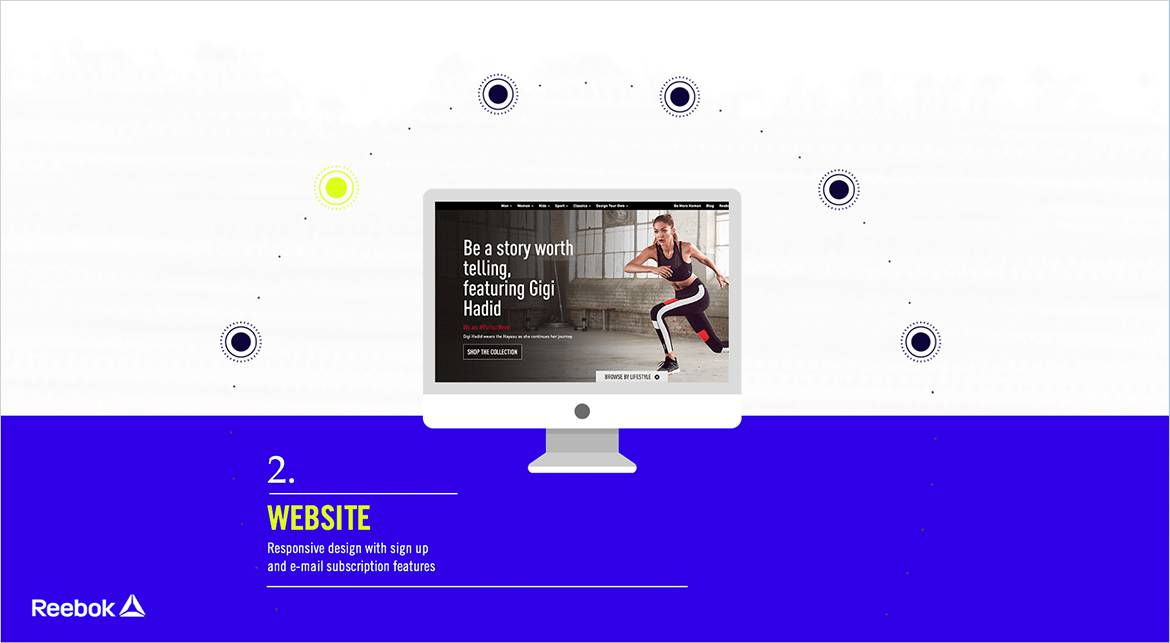
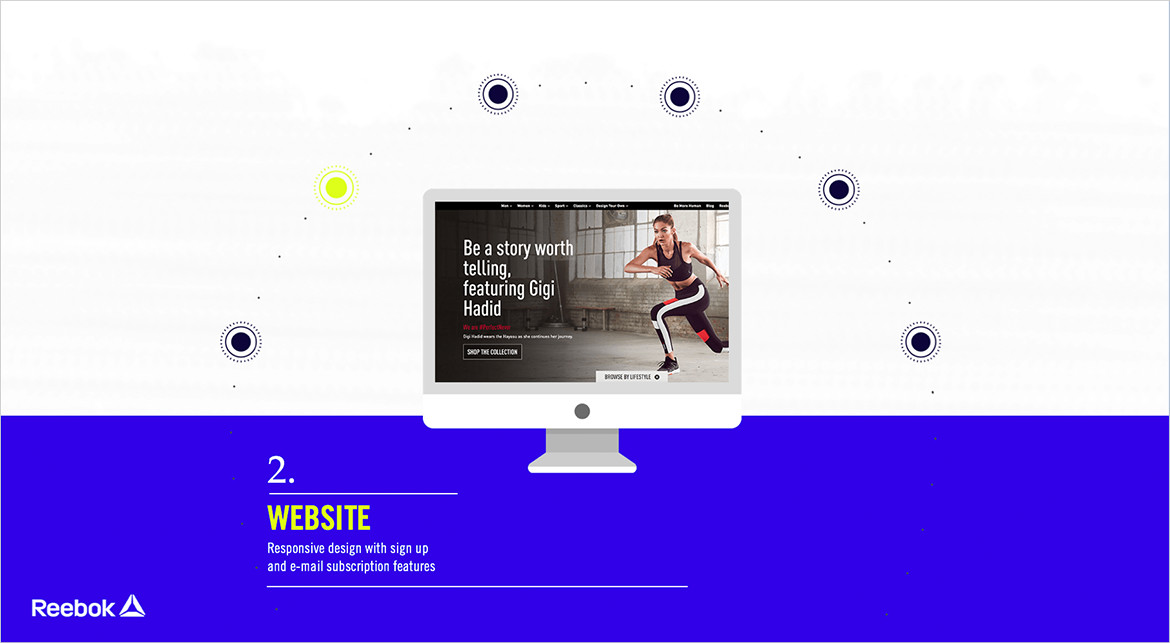
fixed header background cover, and increased quality of reebok images

diff --git a/src/components/headerShelf.js b/src/components/headerShelf.js
@@ -1,11 +1,12 @@
 import React from 'react';
 import Link from 'gatsby-link';
+import Radium from 'radium';
 
 import bg from '../assets/header-bg-2500.jpg';
 import logo from '../assets/logo.png';
 
 const HeaderShelf = () =>
-  <section style={styles.section}>
+  <section className="cover" style={styles.section}>
     <div style={{ display: "table", width: "100%", height: "100%" }}>
       <div style={{ display: "table-cell", verticalAlign: "middle" }}>
         <div>
@@ -21,7 +22,9 @@ var styles = {};
 
 styles.section = {
   height: '100vh',
-  background: 'linear-gradient(rgba(0, 0, 0, 0.15), rgba(0, 0, 0, 0.15)),url(' + bg + ') no-repeat center center',
+  backgroundImage: 'linear-gradient(rgba(0, 0, 0, 0.15), rgba(0, 0, 0, 0.15)),url(' + bg + ')',
+  backgroundRepeat: 'no-repeat',
+  backgroundPosition: 'center center',
   'WebkitBackgroundSize': 'cover',
   'MozBackgroundSize': 'cover',
   'OBackgroundSize': 'cover',
@@ -52,4 +55,4 @@ styles.hr = {
   marginBottom: '4vh'
 }
 
-export default HeaderShelf;
+export default Radium(HeaderShelf);

diff --git a/src/pages/festival-of-you.js b/src/pages/festival-of-you.js
@@ -20,7 +20,7 @@ class FestivalOfYou extends React.Component{
         description="Urban Outfitters have been continually criticised for their negative influence on the self esteem and confidence in young people, especially young girls. 'Festival of You' is a concept designed to alter the brands damaged reputation. The event offers customers a 2 day celebration of themselves and a chance to improve their confidence through a series of inspirational talks and workshops."
         images={[festivalofyou1, festivalofyou2, festivalofyou3, festivalofyou4]}
         prevPageName='/jamie-veg-patch'
-        nextPageName='#' />
+        nextPageName='/mercury' />
     </div>)
   }
 

diff --git a/src/pages/mercury.js b/src/pages/mercury.js
@@ -18,7 +18,7 @@ class Mercury extends React.Component{
         heading="Mercury Brochure"
         description="An annual report for Mercury Logistics. The approach to the text heavy document was founded on key words from the report itself; 'honest', 'open' and 'connected'. The curved graphic elements used in this context reflect these core values, while also adding movement and fluidity to the pages."
         images={[mercury1, mercury2, mercury3]}
-        prevPageName='/jamie-veg-patch'
+        prevPageName='/festival-of-you'
         nextPageName='#' />
     </div>)
   }

diff --git a/src/pages/open-market-presentation.js b/src/pages/open-market-presentation.js
@@ -20,7 +20,7 @@ class OpenMarketPresentation extends React.Component{
         description="A powerpoint template designed while working at Buffalo 7. Using OpenMarket’s brand guidelines, the result was a diverse and functional template, including data visualisation, custom graphics & illustration and animation techniques. "
         images={[openmarket1, openmarket2, openmarket3, openmarket4]}
         prevPageName='/federal-menu'
-        nextPageName='#' />
+        nextPageName='/jamie-veg-patch' />
     </div>)
   }
 

diff --git a/src/components/page/pageHeader.js b/src/components/page/pageHeader.js
@@ -11,7 +11,7 @@ class PageHeader extends React.Component{
 
   render(){
 
-    return (<section style={Object.assign({},styles.section, { background: 'url(' + this.props.bg + ') no-repeat center center', })}>
+    return (<section className="cover" style={Object.assign({},styles.section, { backgroundImage: 'url(' + this.props.bg + ')', backgroundPosition: 'center center' })}>
       <Link to="/"><img src={logo} style={styles.logo} /></Link>
     </section>);
 

diff --git a/src/components/projects/projectPage.js b/src/components/projects/projectPage.js
@@ -7,7 +7,7 @@ import ProjectImages from '../projects/projectImages';
 import ProjectNav from '../projects/projectNav';
 import FooterShelf from '../footerShelf';
 
-class ReebokProject extends React.Component{
+class ProjectPage extends React.Component{
 
   static defaultProps = {
     bg: "",
@@ -32,4 +32,4 @@ class ReebokProject extends React.Component{
 
 
 
-export default ReebokProject;
+export default ProjectPage;

diff --git a/src/layouts/custom.css b/src/layouts/custom.css
@@ -43,6 +43,12 @@ section:before {
     transform-origin: 97% 0;
 }
 
+section.cover{
+  -webkit-background-size: cover;
+  -moz-background-size: cover;
+  background-size: cover;
+}
+
 .specialHeading {
   font-family: "RobotoMono-Regular";
   margin-bottom: 9%;
